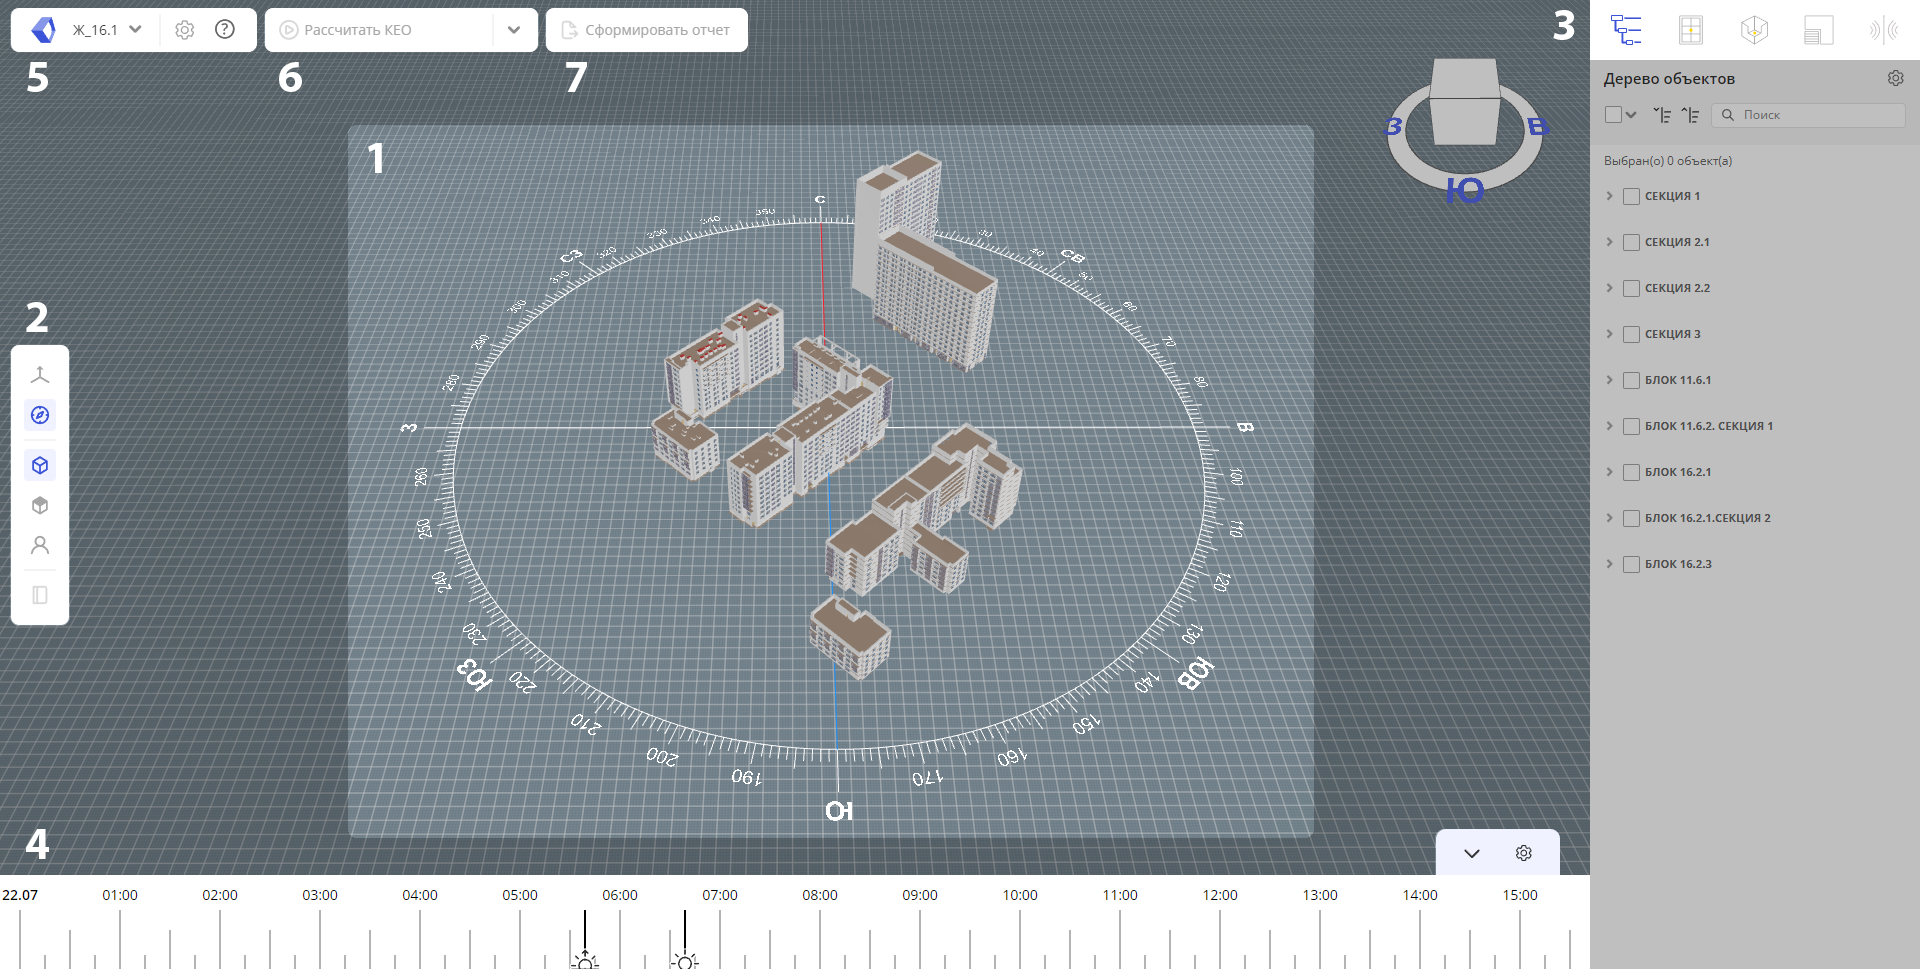
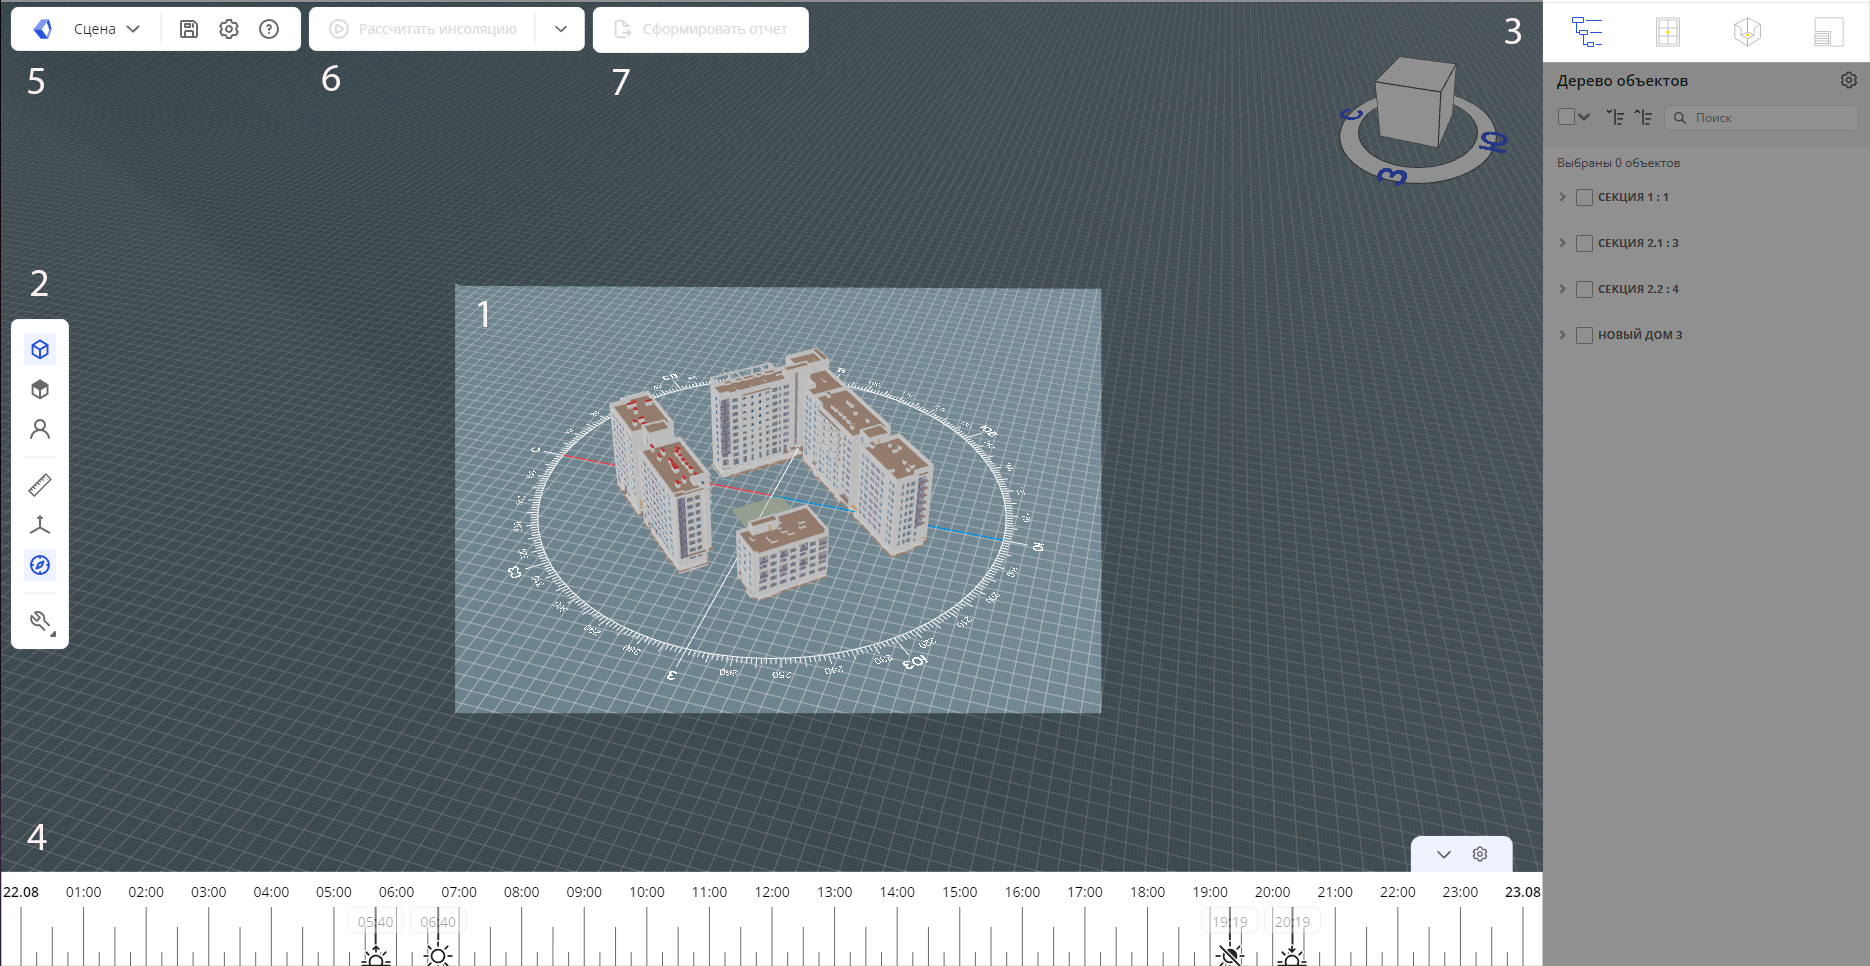
Add docs for ruler + fix conception typos

diff --git a/docs/4. Концепция/index.md b/docs/4. Концепция/index.md
@@ -32,10 +32,9 @@ import exprtImage from "./resources/exprt.png";
 
 2. После установки плагина при открытии программы появится всплывающее окно. Нажимаем  «Всегда, загружать» (рис.1). 
 
-<image image={rtyImage} width="55%" title="Рисунок 1 -Всплывающее окно Revit "/>
+<image image={rtyImage} width="55%" title="Рисунок 1 - Всплывающее окно Revit "/>
 
-3. После установки плагина, необходимо скачать программу для синхронизации модели с Formit.  
-_Ссылка на скачивание:_ https://disk.yandex.ru/d/_1XNAwhe_SsQ_A
+3. После установки плагина, необходимо скачать программу для синхронизации модели с Formit ([ссылка на скачивание](https://disk.yandex.ru/d/_1XNAwhe_SsQ_A)).
 
 
 
@@ -53,11 +52,11 @@ _Ссылка на скачивание:_ https://disk.yandex.ru/d/_1XNAwhe_SsQ_
 Для того чтобы сервис понимал, что является площадкой, необходимо в параметр _“Группа модели”_ (рис.4) ввести слово _Площадка_ и в параметр _“Марка”_ (рис.5) ввести наименование площадки, которое будет отображаться в сервисе.
 
 <image image={plosh2Image} width="50%" title="Рисунок 4 - Группа модели"/>
- <image image={plosh3Image} width="50%" title="Рисунок 5 - Парметр Марка"/>
+ <image image={plosh3Image} width="50%" title="Рисунок 5 - Параметр Марка"/>
 
 В сервис экспортируются все площадки, расположенные на виде и имеющие заполненные параметры _“Группа модели”_ и _“Марка”_.
 
-Можно выстраивать рельеф. Сервис будет воспринимать, как зетняющий объект.
+Можно выстраивать рельеф. Сервис будет воспринимать, как затеняющий объект.
  
  
 
@@ -77,11 +76,11 @@ _Ссылка на скачивание:_ https://disk.yandex.ru/d/_1XNAwhe_SsQ_
 
 <image image={exptImage} width="60%" title="Рисунок 8 - Экспорт "/>
 
-5. .В Личном кабинете в сервисе заходим в меню *“Мои продукты”*. Открываем AltecConception (рис.9).
+5. В Личном кабинете в сервисе заходим в меню *“Мои продукты”*. Открываем AltecConception (рис.9).
 
 <image image={lkImage} width="100%" title="Рисунок 9 - Личный кабинет "/>
 
-## Главная старница Сервиса
+## Главная страница Сервиса
 
 <image image={servImage} width="100%" title="Рисунок 10 - Интерфейс сервиса "/>
 
@@ -89,10 +88,10 @@ _Ссылка на скачивание:_ https://disk.yandex.ru/d/_1XNAwhe_SsQ_
 [2] Панель инструментов  
 [3] Командная панель  
 [4] Легенда  
-[5] Выбор рачёта  
+[5] Выбор расчёта  
 [6] Скриншот 
 
-Кнопка скриншот [6] - позволяет выгружать скриншот без интерфейса сервиса  в формате PNG.
+Кнопка скриншот [6] - позволяет выгружать скриншот без интерфейса сервиса в формате PNG.
 
 В панели инструментов [2] есть функции:
 
@@ -123,7 +122,7 @@ __Также, Вы можете произвести Настройки сетк
 
 <image image={setkaImage} width="40%" title="Рисунок 13 - Настройки"/>
 
-После настройки всех параметров в Сервисе, необходимо произвести синхронизацию проекта с Revit- моделью.
+После настройки всех параметров в Сервисе, необходимо произвести синхронизацию проекта с Revit-моделью.
 Для этого в верхней панели программы Revit следует перейти на вкладку _“AltecSystems Exporter”_ и после, нажать кнопку _“Синхронизация”_, которая находится в разделе _“Концепция”_ (рис.14).
 
 <image image={rvt2Image} width="130%" title="Рисунок 14 - Синхронизация"/>
@@ -147,7 +146,7 @@ __Также, Вы можете произвести Настройки сетк
 
 - _Красный цвет_- не проходит
 
-- _Зеленый в желтую штриховку_ - прохождение по прерывистаой инсоляции 
+- _Зеленый в желтую штриховку_ - прохождение по прерывистой инсоляции 
 
 - _Жёлтый в красную штриховку_ - инсоляция не прошла из-за прерывания периода 
 
@@ -164,11 +163,11 @@ __Также, Вы можете произвести Настройки сетк
 
 <image image={plshresulImage} width="40%" title="Рисунок 18 - Результаты расчета"/>
 
-Во вкладке *Результаты*  мы видим статус прохождения инсоляции  у площадки
+Во вкладке *Результаты* мы видим статус прохождения инсоляции у площадки.
 
 По СанПин 1.2.3685-21 Нормируемая совокупная продолжительность инсоляци на территории жилой застройки должна составлять 50% площади участка независимо от географической широты.
 
-В Сервисе прохождение 50% участка  по Инсоляции отображается как Статус 100. Это значит, что норма выполняется на 100%, а значит площадка прошла инсоляцию.
+В Сервисе прохождение 50% участка по Инсоляции отображается как Статус 100. Это значит, что норма выполняется на 100%, а значит площадка прошла инсоляцию.
 Если все точки площадки проходят инсоляцию статус будет равен 200.
 
 

diff --git a/docs/2. Руководство пользователя/3. Сервис Altec Insolations/2.  Интерфейс сервиса.md b/docs/2. Руководство пользователя/3. Сервис Altec Insolations/2.  Интерфейс сервиса.md
@@ -6,8 +6,11 @@ import linImage from "@site/docs/resources/lk/lin.png";
 import kubImage from "@site/docs/resources/kub.png";
 import modelImage from "@site/docs/resources/frame/model.png";
 import generalSettingsImage from "./resources/generalSettings.png";
-
-
+import rulerImage from "./resources/ruler.png";
+import ploskostImage from "./resources/ploskost.png";
+import tochkaImage from "./resources/tochka.png";
+import tochka2Image from "./resources/tochka2.png";
+import tochka3Image from "./resources/tochka3.png";
 
 ***
 
@@ -48,6 +51,31 @@ import generalSettingsImage from "./resources/generalSettings.png";
 
 
 ![](../../resources/rc.png) Клик по иконке *“Роза компаса”* позволяет отключать и включать розу ветров на виде. 
+
+
+![](../../resources/ruler.png) Инструмент *Измерение*.
+
+Чтобы воспользоваться инструментом _"Измерение"_ нажмите на иконку в панели инструментов. В правом верхнем углу всплывет панель с названием _“Настройки привязки”_. Она нужна, чтобы выбрать плоскость привязки и наиболее точно измерить расстояние в 3D пространстве (рис.26.2). 
+
+<image image={rulerImage} width="100%" title="Рисунок 26.2 - Инструмент Измерение"/>
+
+Чтобы выбрать плоскость, к которой вы будете *“привязывать”* точку измерения, нажмите на кнопку *“Выбрать плоскость”*, затем выберите саму плоскость объекта. Она может быть как вертикальной, так и горизонтальной.
+
+После нажатия появится голубой квадрат, лежащий на измеряемой площади - это значит, что плоскость измерения выбрана (рис.26.3).
+
+<image image={ploskostImage} width="100%" title="Рисунок 26.3 - Выбор плоскости"/> 
+
+Первую точку следует поставить двойным нажатием мыши на выбранное вами место на плоскости. После нажатия появится белый круг с черной окантовкой на выбранном месте (рис.26.4).
+
+<image image={tochkaImage} width="100%" title="Рисунок 26.4 - Первая точка"/> 
+
+Вторая точка также ставится двойным нажатием мыши (рис.26.5).
+
+<image image={tochka2Image} width="100%" title="Рисунок 26.5 - Вторая точка"/> 
+
+Дополнительно, вы можете изменять размер, двигая ту или иную точку на плоскости (рис.26.6). 
+
+<image image={tochka3Image} width="100%" title="Рисунок 26.6 - Изменение положения измерителя"/> 
 
 
 **Режимы камеры:**
